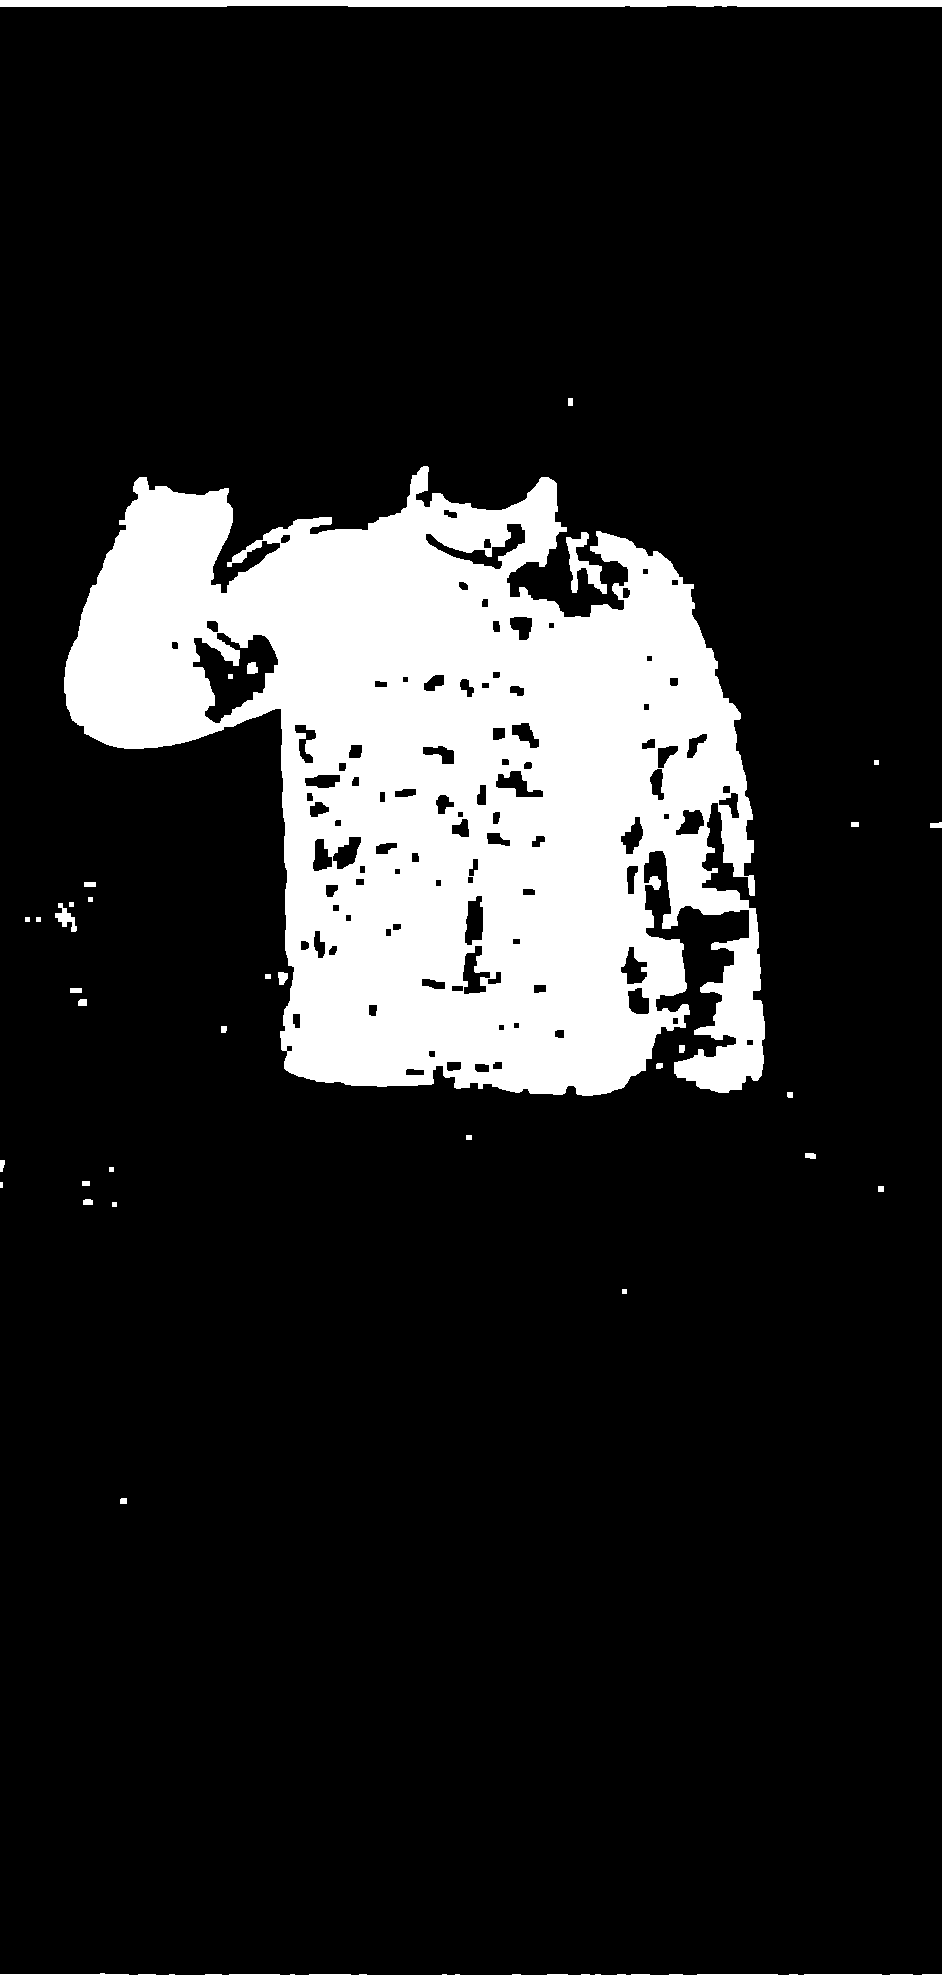
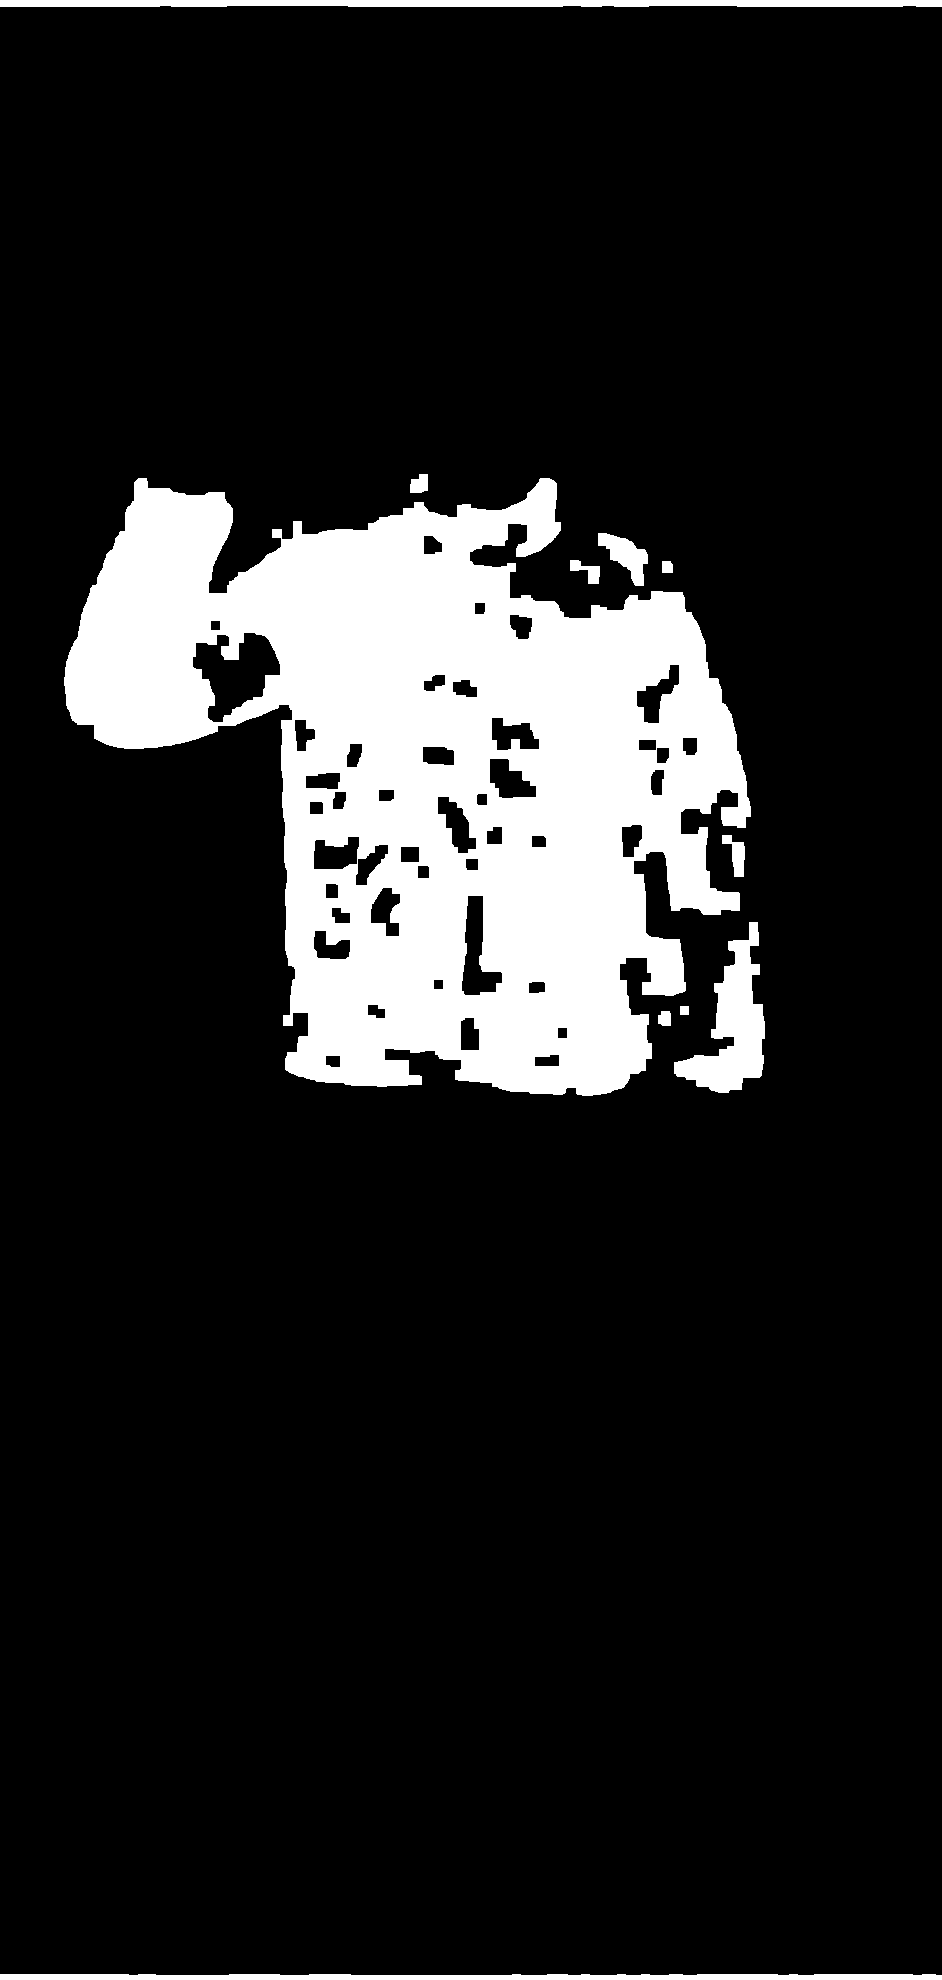
mask tweaks

diff --git a/danny-mirror/try-on-clothes/isolate-clothing/basic/output/basic.py b/danny-mirror/try-on-clothes/isolate-clothing/basic/output/basic.py
@@ -33,7 +33,7 @@ def main():
 	_, mask = cv2.threshold(gray, 10, 255, cv2.THRESH_BINARY)
 
 	# clean it
-	kernel = np.ones((5, 5), np.uint8)
+	kernel = np.ones((9, 9), np.uint8)
 	mask = cv2.morphologyEx(mask, cv2.MORPH_OPEN, kernel)
 	mask = cv2.morphologyEx(mask, cv2.MORPH_CLOSE, kernel)
 
